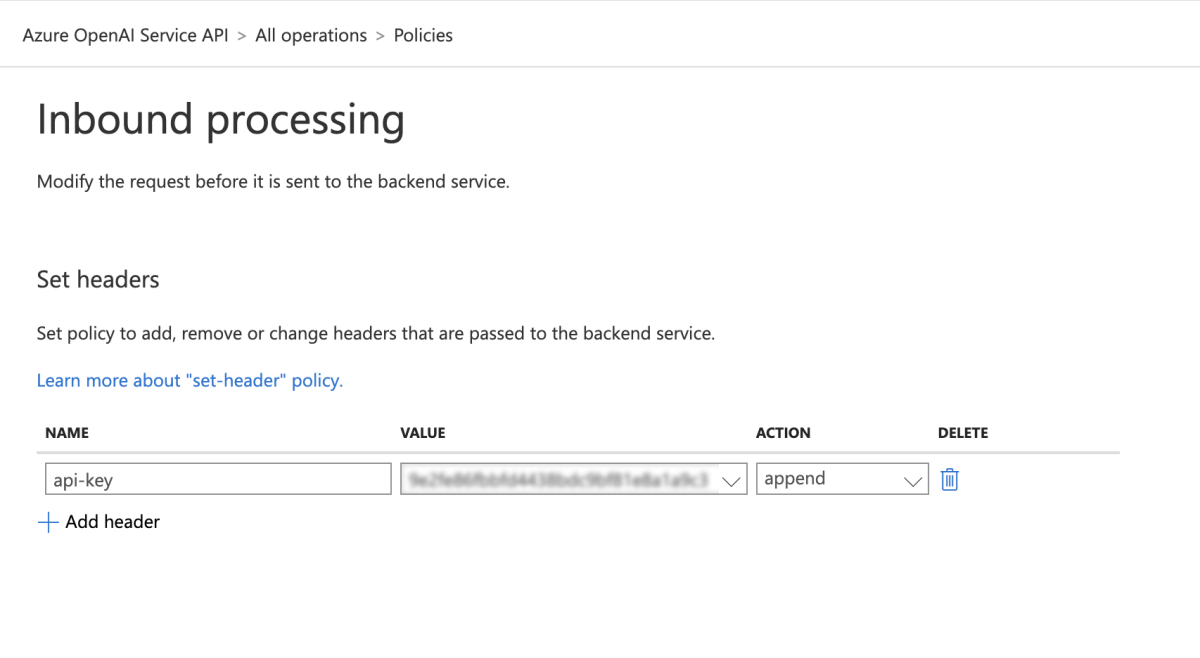
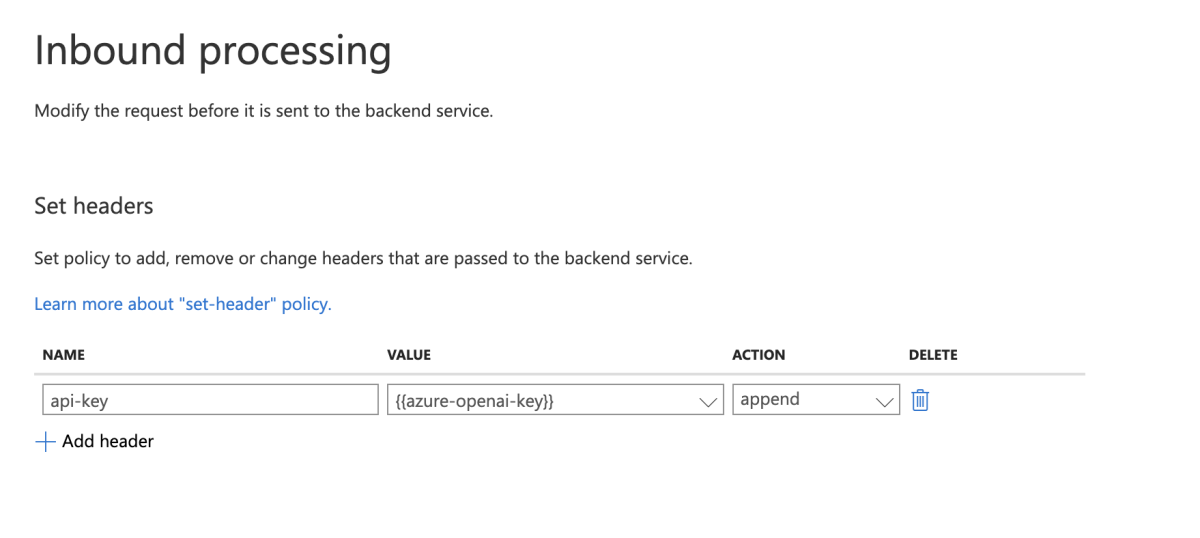
Updated per recommendations

diff --git a/semantic-kernel/deploy/use-ai-apis-with-api-management.md b/semantic-kernel/deploy/use-ai-apis-with-api-management.md
@@ -12,19 +12,19 @@ ms.service: mssearch
 
 [!INCLUDE [subheader.md](../includes/pat_large.md)]
 
-With [Azure API Management](https://learn.microsoft.com/en-us/azure/api-management/api-management-key-concepts), you can protect your AI API keys and manage access to your AI APIs. This is helpful if you want to give your users or developers access to OpenAI or Azure OpenAPI APIs without giving them direct access to your keys or to manage access to your AI APIs directly from Azure.
+With [Azure API Management](https://learn.microsoft.com/en-us/azure/api-management/api-management-key-concepts), you can protect your AI API keys and manage access to your AI APIs. This is helpful if you want to give your users or developers access to  Azure OpenAPI APIs without giving them direct access to your keys or to manage access to your AI APIs directly from Azure.
 
 By the end of this article, you'll have a working API Management instance along with sample code that shows you how to use Azure API Management with Semantic Kernel.
 
 ## Prerequisites
 To complete this tutorial, you'll first need access to the following:
-- Azure OpenAI API key or OpenAI API key
+- Azure OpenAI API key
 - API Management instance
 
 To create a new API Management instance, see [Create an API Management instance](/azure/api-management/get-started-create-service-instance). You can use the default configuration when creating your instance.
 
 ## Setup Azure API Management instance with Azure OpenAI API
-The following steps describe how you can setup your Azure OpenAI API with Azure API Management. You can follow a similar process for OpenAI APIs.
+The following steps describe how you can setup your Azure OpenAI API with Azure API Management.
 
 1. Start by [downloading the API definition for Azure OpenAI](https://raw.githubusercontent.com/Azure/azure-rest-api-specs/main/specification/cognitiveservices/data-plane/AzureOpenAI/inference/preview/2023-03-15-preview/inference.json) and saving it to your local machine.
 
@@ -50,13 +50,21 @@ The following steps describe how you can setup your Azure OpenAI API with Azure 
 
 3. You can now import the file from step 2 into Azure API Management. The full process is described in the [import and publish](/azure/api-management/import-and-publish) article.
 
-4. Finally, [edit the inbound policy](/azure/api-management/set-edit-policies) so your API adds the `api-key` header to your request.
+4. Now create a named value for your Azure OpenAI API key.
+
+    This will allow you to better protect your Azure OpenAI API key. To create a named value, see [using named values in Azure API Management policies](azure/api-management/api-management-howto-properties). Take note of the **Display name** you give your named value as you'll need it in the next step.
+
+    :::image type="content" source="../media/azure-named-key.png" alt-text="Set header in inbound processing":::
+
+5. Finally, [edit the inbound policy](/azure/api-management/set-edit-policies) so your API adds the `api-key` header to your request.
     1. Navigate to your API Management instance and select **APIs** from the left-hand menu.
     2. Select your API from the list of APIs.
     3. Select the **Design** tab.
     4. Select **Add policy** within the Inbound processing section.
     5. Select **Set headers**.
-    6. In the **Set headers** page, enter `openai-key` for the **Name** field and your Azure OpenAI API key for the **Value** field; leave the action as `append`.
+    6. In the **Set headers** page, enter `openai-key` for the **Name** field
+    7. For the **Value** field, take the display name of your named value in the previous step and wrap it in double curly braces. For example, if the display name of your named value was `azure-openai-key`, you would enter `{{azure-openai-key}}`.
+    8. leave the action as `append`.
         :::image type="content" source="../media/api-management-define-header.png" alt-text="Set header in inbound processing":::
     7. Select **Save**.
 
@@ -68,19 +76,21 @@ You've now created and initially setup your Azure OpenAI API with Azure API Mana
 ## Configure authentication for your new API
 By default, your new Azure API Management service uses subscriptions to control access to your APIs, but this would be functionally equivalent to giving your users direct access to your API keys. So instead, we'll demonstrate how to setup OAuth 2.0 to control access to your Azure OpenAI APIs.
 
-1. First, turn off **Subscription required** for your API.
 
-    Navigate to your API Management instance and select **APIs** from the left-hand menu. Then select your API from the list of APIs. In the **Settings** tab, find the **Subscription required** checkbox and uncheck it.
-
-    :::image type="content" source="../media/api-management-turn-off-subscription.png" alt-text="Turn off subscription required":::
-
-2. Next, configure OAuth 2.0 by folloing the steps in the [protect an API in Azure API Management using OAuth 2.0 authorization with Azure Active Directory](/azure/api-management/api-management-howto-protect-backend-with-aad#register-an-application-in-azure-ad-to-represent-the-api) article.
+2. Configure OAuth 2.0 by folloing the steps in the [protect an API in Azure API Management using OAuth 2.0 authorization with Azure Active Directory](/azure/api-management/api-management-howto-protect-backend-with-aad#register-an-application-in-azure-ad-to-represent-the-api) article.
 
     Once you're done with these steps you'll have an Azure AD application with the necessary scopes.
 
-3. Lastly, [configure a JWT validation policy to pre-authorize requests](/azure/api-management/api-management-howto-protect-backend-with-aad#configure-a-jwt-validation-policy-to-pre-authorize-requests).
+3. Next, [configure a JWT validation policy to pre-authorize requests](/azure/api-management/api-management-howto-protect-backend-with-aad#configure-a-jwt-validation-policy-to-pre-authorize-requests).
 
     This will ensure that only users with the correct permissions can access your API and underlying Azure OpenAI API. 
+
+1. Lastly, turn off **Subscription required** for your API.
+
+    Navigate to your API Management instance and select **APIs** from the left-hand menu. Then select your API from the list of APIs. In the **Settings** tab, find the **Subscription required** checkbox and uncheck it. Only complete this step after configuring OAuth 2.0 and JWT validation to ensure that only authorized users can access your API.
+
+    :::image type="content" source="../media/api-management-turn-off-subscription.png" alt-text="Turn off subscription required":::
+
 
 Congrats, you've now configured authentication for your Azure OpenAI API with Azure API Management. You can now provide users with access to your API by creating users in Azure AD and assigning them the correct permissions. For more information, see [Assign a user or group to an enterprise app in Azure Active Directory](/azure/active-directory/manage-apps/assign-user-or-group-access-portal).
 
